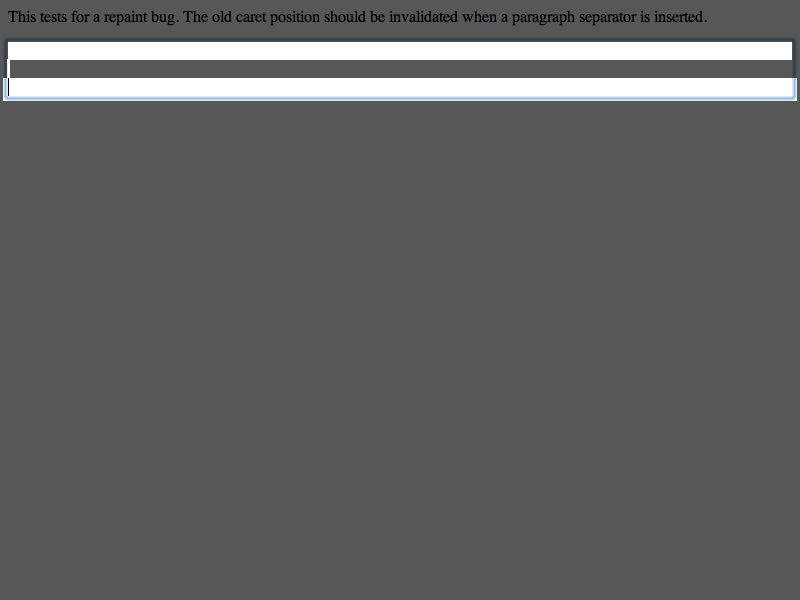
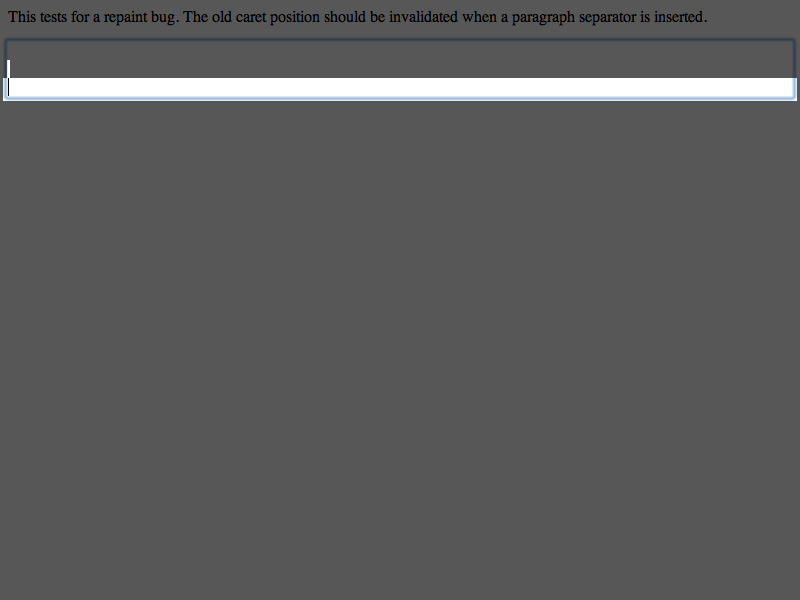
WebCore:
Reviewed by Darin Adler.

        - fix https://bugs.webkit.org/show_bug.cgi?id=15129
          <rdar://problem/4644824> adding a new line with DOM does unnecessary additional repaint

        Covered by fast/repaint/4776765.html

        * rendering/RenderBlock.cpp:
        (WebCore::RenderBlock::layoutBlock): Avoid repainting this object if it
        did not have layout in the beginning.
        (WebCore::RenderBlock::layoutBlockChildren): If a child did not have
        layout in the beginning, repaint it in its new position, to compensate
        for the above (regardless of whether it "moved").
        * rendering/RenderObject.cpp:
        (WebCore::RenderObject::checkForRepaintDuringLayout): Added a comment
        about generalizing this fix in the future.

LayoutTests:

        Reviewed by Darin Adler.

        - updated results for https://bugs.webkit.org/show_bug.cgi?id=15129
          <rdar://problem/4644824> adding a new line with DOM does unnecessary additional repaint

        * platform/mac/fast/repaint/4776765-expected.checksum:
        * platform/mac/fast/repaint/4776765-expected.png:

git-svn-id: https://svn.webkit.org/repository/webkit/trunk@36515 268f45cc-cd09-0410-ab3c-d52691b4dbfc

Changed region(s): [[0.0, 0.06, 1.0, 0.12]]

diff --git a/WebCore/rendering/RenderBlock.cpp b/WebCore/rendering/RenderBlock.cpp
@@ -582,7 +582,7 @@ void RenderBlock::layoutBlock(bool relayoutChildren)
 
     IntRect oldBounds;
     IntRect oldOutlineBox;
-    bool checkForRepaint = checkForRepaintDuringLayout();
+    bool checkForRepaint = m_everHadLayout && checkForRepaintDuringLayout();
     if (checkForRepaint) {
         oldBounds = absoluteClippedOverflowRect();
         oldOutlineBox = absoluteOutlineBox();
@@ -1279,7 +1279,10 @@ void RenderBlock::layoutBlockChildren(bool relayoutChildren, int& maxFloatBottom
         // run-ins.  When we encounter these four types of objects, we don't actually lay them out as normal flow blocks.
         bool handled = false;
         RenderObject* next = handleSpecialChild(child, marginInfo, compactInfo, handled);
-        if (handled) { child = next; continue; }
+        if (handled) {
+            child = next;
+            continue;
+        }
 
         // The child is a normal flow object.  Compute its vertical margins now.
         child->calcVerticalMargins();
@@ -1319,6 +1322,7 @@ void RenderBlock::layoutBlockChildren(bool relayoutChildren, int& maxFloatBottom
         if (child->isRenderBlock())
             previousFloatBottom = max(previousFloatBottom, oldRect.y() + static_cast<RenderBlock*>(child)->floatBottom());
 
+        bool childHadLayout = child->m_everHadLayout;
         bool childNeededLayout = child->needsLayout();
         if (childNeededLayout)
             child->layout();
@@ -1364,9 +1368,12 @@ void RenderBlock::layoutBlockChildren(bool relayoutChildren, int& maxFloatBottom
             // If the child moved, we have to repaint it as well as any floating/positioned
             // descendants.  An exception is if we need a layout.  In this case, we know we're going to
             // repaint ourselves (and the child) anyway.
-            if (!selfNeedsLayout() && child->checkForRepaintDuringLayout())
+            if (childHadLayout && !selfNeedsLayout() && child->checkForRepaintDuringLayout())
                 child->repaintDuringLayoutIfMoved(oldRect);
         }
+
+        if (!childHadLayout && child->checkForRepaintDuringLayout())
+            child->repaint();
 
         child = child->nextSibling();
     }

diff --git a/WebCore/rendering/RenderObject.cpp b/WebCore/rendering/RenderObject.cpp
@@ -1960,6 +1960,9 @@ void RenderObject::repaintOverhangingFloats(bool paintAllDescendants)
 
 bool RenderObject::checkForRepaintDuringLayout() const
 {
+    // FIXME: <https://bugs.webkit.org/show_bug.cgi?id=20885> It is probably safe to also require
+    // m_everHadLayout. Currently, only RenderBlock::layoutBlock() adds this condition. See also
+    // <https://bugs.webkit.org/show_bug.cgi?id=15129>.
     return !document()->view()->needsFullRepaint() && !hasLayer();
 }
 
